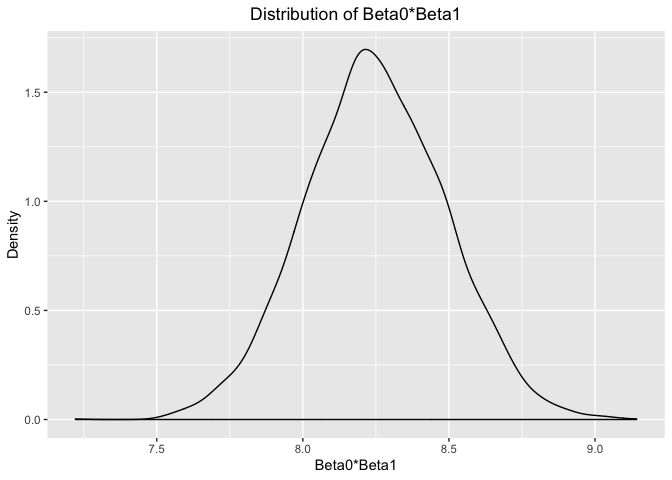
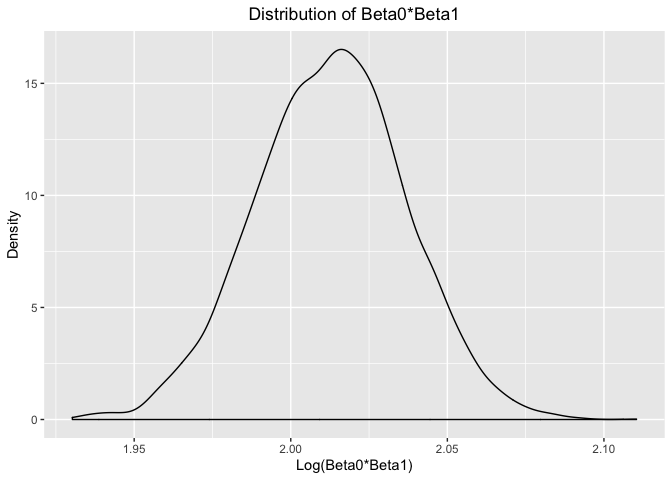
95% confidence intervals calculated for the log(beta0*beta1) and r.squared variables.

diff --git a/p8105_hw6_niz2000.md b/p8105_hw6_niz2000.md
@@ -161,7 +161,8 @@ variable, therefore “parity” is the only predictor in our model that is
 not statistically significant. Additionally, our regression coefficients
 for “parity” and “smoken” are negative, therefore demonstrating a
 negative linear relationship between the predictor and our birthweight
-outcome.
+outcome, with the remaining variables demonstrating a positive linear
+association.
 
 ## Plot of Model Residuals and Fitted Values
 
@@ -224,7 +225,7 @@ birthweight %>%
 
 The scatterplot of residuals against fitted values is concentrated
 around fitted values from 2800 to 33000, and residual values from -1000
-to 1000.
+to 1000. ADD DESCRIPTIONS
 
 ## Comparing Fit Models
 
@@ -281,7 +282,7 @@ interaction_fit
 As there are interaction terms, the interaction\_terms\_fit regression
 model outputs an intercept, and seven coefficients, three for each
 predictor, three for interaction terms between two predictors, and one
-coefficient for the interactiont term between all three predictors.
+coefficient for the interaction term between all three predictors.
 
 ### Comparing Cross-Validated Prediction Errors
 
@@ -318,7 +319,7 @@ cv_df %>%
     values_to = "rmse",
     names_prefix = "rsme_") %>%
   mutate(model = fct_inorder(model)) %>%
-  ggplot(aes(x = model, y = rmse)) +
+  ggplot(aes(x = model, y = rmse, color = model)) +
     geom_violin() +
     labs(
       title = "Cross-Validated Prediction Errors",
@@ -413,8 +414,8 @@ weather_bootstrap = weather_df %>%
     ## # … with 4,990 more rows
 
 The resulting weather\_bootstrap dataframe consists of 5,000 bootstrap
-samples. The underlying simple linear regression model displays tmax as
-the response, and tmin as the predictor of interest.
+samples. The underlying simple linear regression model displays “tmax”
+as the response, and “tmin” as the predictor of interest.
 
 ## Distribution of log(β̂ 0∗β̂ 1)
 
@@ -429,12 +430,13 @@ logbeta_plot = weather_bootstrap %>%
     values_from = "estimate") %>%
   unnest() %>%
   janitor::clean_names() %>%
-  mutate(intercept_beta1 = intercept + tmin) %>%
-  ggplot(aes(x = intercept_beta1)) +
+  mutate(intercept_beta1 = intercept*tmin,
+         log_intercept_beta1 = log(intercept_beta1)) %>%
+  ggplot(aes(x = log_intercept_beta1)) +
     geom_density() +
     labs(
       title = "Distribution of Beta0*Beta1",
-      x = "Beta0*Beta1",
+      x = "Log(Beta0*Beta1)",
       y = "Density") +
     viridis::scale_color_viridis(discrete = TRUE) +
     theme(plot.title = element_text(hjust = 0.5))
@@ -456,10 +458,30 @@ logbeta_plot
 
 ADD DESCRIPTION
 
-### 95% CI
+### 95% CI of log(β̂ 0∗β̂ 1)
 
-quantile(pull(weather\_bootstrap, intercept\_beta1), probs = c(.025,
-0.975))
+``` r
+weather_bootstrap %>%
+  mutate(results = map(models, broom::tidy)) %>%
+  select(results) %>%
+  unnest(results) %>%
+  select(term, estimate) %>%
+  pivot_wider(
+    names_from = "term",
+    values_from = "estimate") %>%
+  unnest() %>%
+  janitor::clean_names() %>%
+  mutate(intercept_beta1 = intercept*tmin,
+    log_intercept_beta1 = log(intercept_beta1)) %>%
+  pull(log_intercept_beta1) %>%
+  as.vector() %>%
+  quantile(probs = c(0.025, 0.975), na.rm = TRUE)
+```
+
+    ##     2.5%    97.5% 
+    ## 1.965314 2.058781
+
+The 95% confidence interval for the log(β̂ 0∗β̂ 1) is (1.97, 2.06).
 
 ## Distribution of r̂ 2
 
@@ -483,13 +505,20 @@ r_squared_plot
 
 ADD DESCRIPTION
 
-### 95% CI
+### 95% CI of r̂ 2
 
-r\_squared\_plot %\>% qdata(.025,r.squared)
+``` r
+weather_bootstrap %>%
+  mutate(
+    results = map(models, broom::glance)) %>%
+  select(results) %>%
+  unnest(results) %>%
+  pull(r.squared) %>%
+  as.vector() %>%
+  quantile(probs = c(0.025, 0.975), na.rm = TRUE)
+```
 
-r\_squared\_plot %\>% pull(r.squared) %\>% as.vector(r.squared) %\>%
-quantile(r.squared, probs=c(0.025, 0.975), na.rm=TRUE)
+    ##      2.5%     97.5% 
+    ## 0.8944866 0.9271505
 
-using the 5000 bootstrap estimates, identify the 2.5% and 97.5%
-quantiles to provide a 95% confidence interval for r̂ 2 and log(β̂ 0∗β̂
-1)
+The 95% confidence interval for the r.squared value is (0.89, 0.93).
